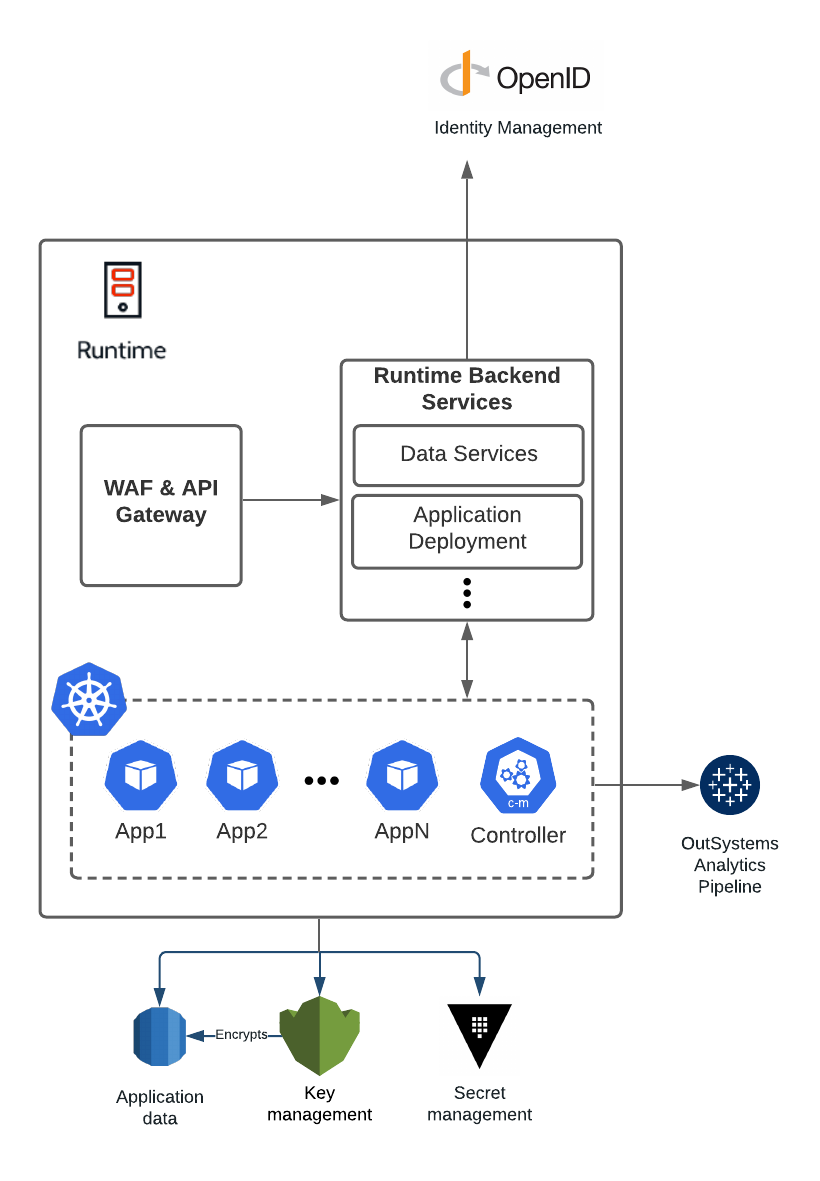
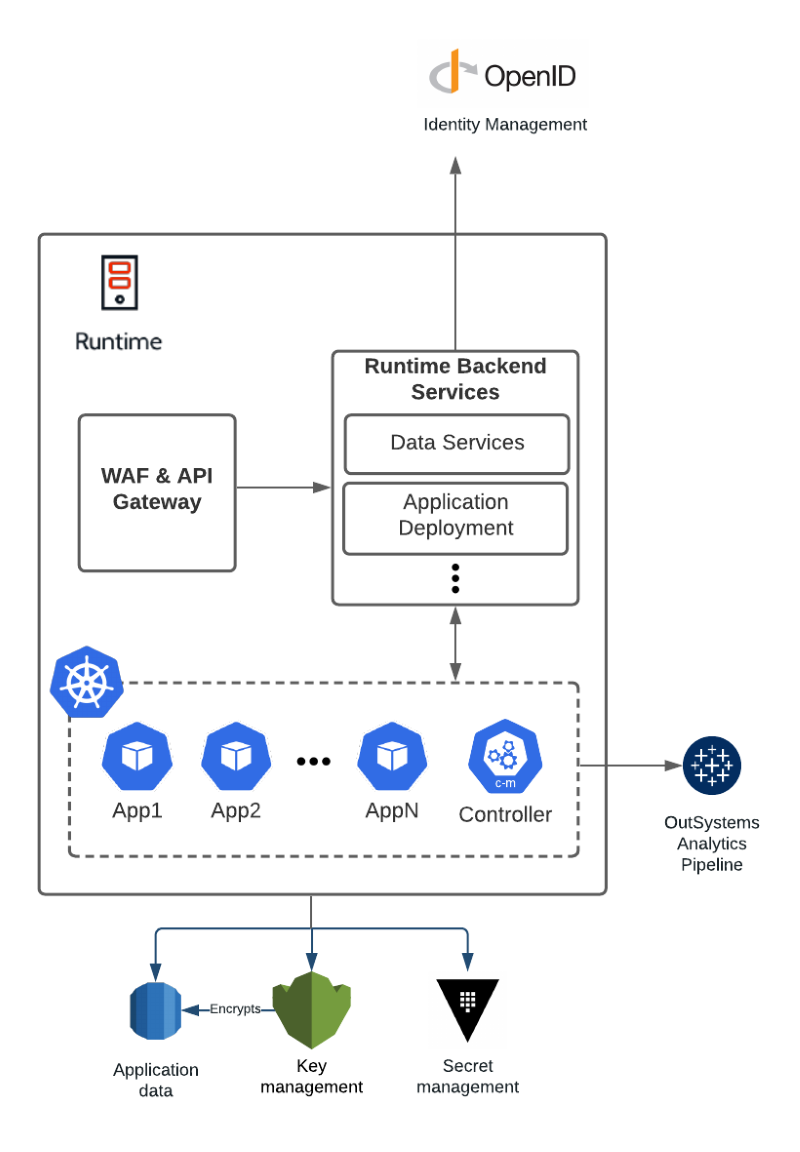
Fix div tag, make images bit smaller.

diff --git a/src/eap/infrastructure-architecture.md b/src/eap/infrastructure-architecture.md
@@ -10,6 +10,8 @@ tags:
 
 Project Neo documentation is under construction. It's frequently updated and expanded. Leave your feedback and help us build the most useful content.
 
+</div>
+
 This article provides an overview of the
 infrasturcture architecture of Project Neo.
 
